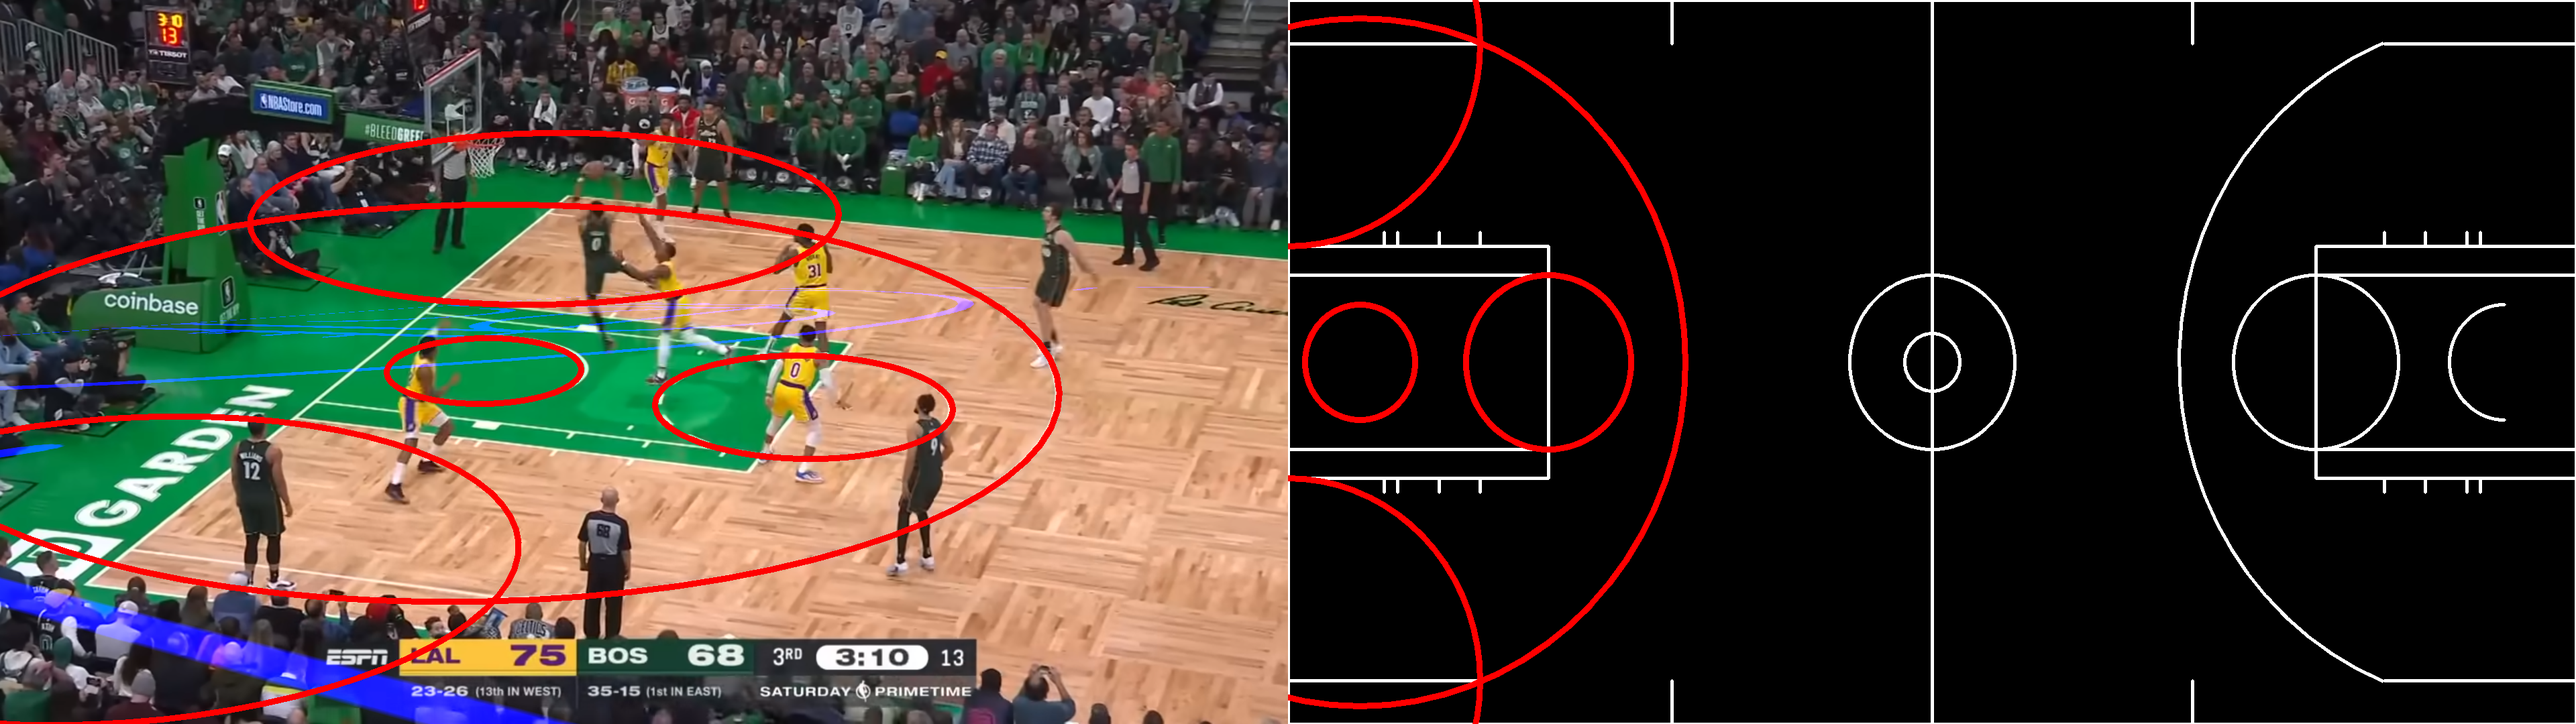
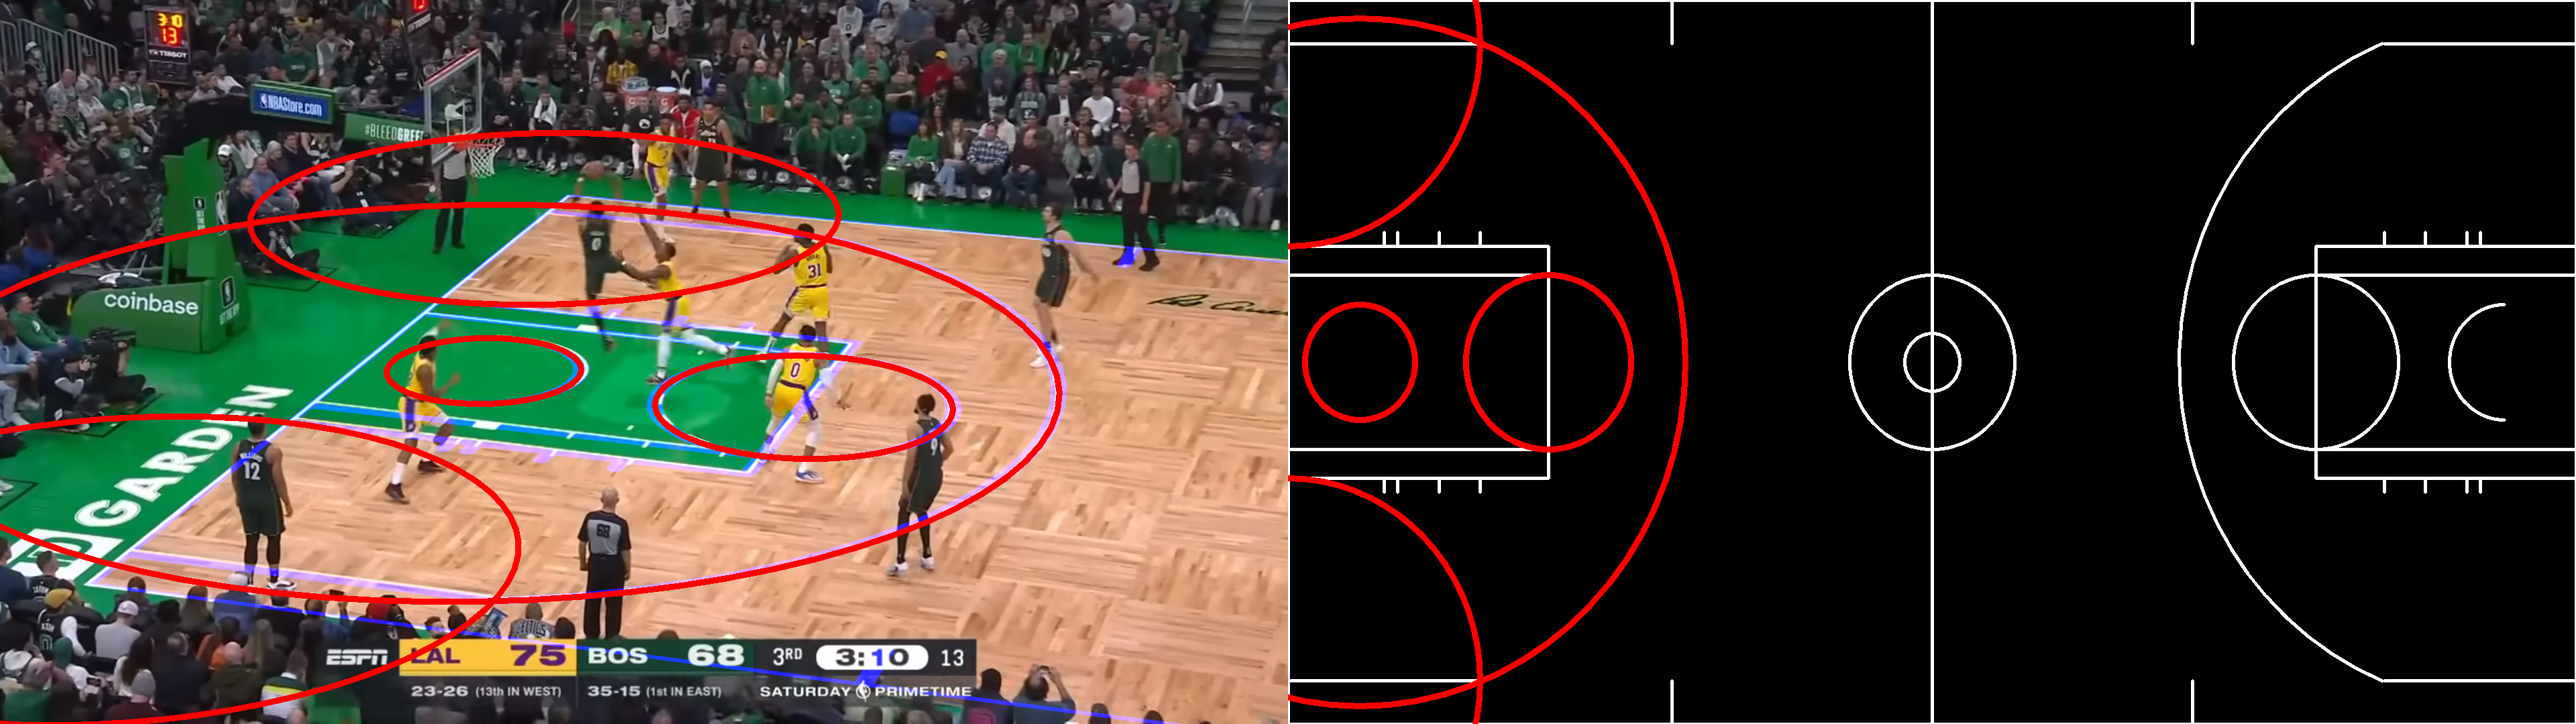
add demo for image registration

diff --git a/projective_geometry/image_registration/register.py b/projective_geometry/image_registration/register.py
@@ -1,0 +1,194 @@
+# Copyrights (C) StatsBomb Services Ltd. 2021. - All Rights Reserved.
+# Unauthorized copying of this file, via any medium is strictly
+# prohibited. Proprietary and confidential
+
+from dataclasses import dataclass
+from typing import Any, Optional, Tuple
+
+import cv2
+import numpy as np
+
+
+MAX_FEATURES_ORB = 500
+MATCHER_TYPE: int = cv2.DESCRIPTOR_MATCHER_BRUTEFORCE_HAMMING
+
+
+@dataclass
+class MatchedKeypoints():
+    """Class to store matched keypoints and descriptors for target and source images"""
+    target_keypoints: Tuple[cv2.KeyPoint, ...]
+    source_keypoints: Tuple[cv2.KeyPoint, ...]
+    matches: Tuple[cv2.DMatch, ...]
+
+class ImageRegistrator():
+    def __init__(self, max_features_detector: int = MAX_FEATURES_ORB, matcher_type: int = MATCHER_TYPE):
+        self._orb = cv2.ORB_create(max_features_detector)  # type: ignore
+        self._matcher = cv2.DescriptorMatcher_create(matcher_type)  # type: ignore
+
+    def register(
+        self,
+        target_image: np.ndarray,
+        source_image: np.ndarray,
+        target_mask: Optional[np.ndarray] = None,
+        source_mask: Optional[np.ndarray] = None,
+    ) -> Tuple[MatchedKeypoints, np.ndarray]:
+        """Register two images of the same scene using a projective transform
+
+        Note: If not enough keypoints are detected, it will return an identity matrix as the homography
+
+        Args:
+            target_image: ndarray reference image that will remain static
+            source_image: ndarray image that will undergo a homography transform in order to align with target image
+            target_mask: bool ndarray mask indicating valid region for keypoint detection in target image
+            source_mask: bool ndarray mask indicating valid region for keypoint detection in source image
+
+        Returns:
+            matched_keypoints: MatchedKeypoints containing list of matches as well as all detected keypoints and descriptors for both images
+            homography_image_registration: ndarray 3x3 homography matrix that maps homogeneous points from source image to target image
+        """
+        # find matches
+        matched_keypoints = self._match_keypoints(
+            target_image=target_image, source_image=source_image, target_mask=target_mask, source_mask=source_mask
+        )
+        # filter top matches to remove noisy outliers. It returns a minimum of 4 points to compute homography
+        matched_keypoints = self._filter_top_matches(matched_keypoints=matched_keypoints)
+
+        # Raise an error if it doesn't get at least 4 point
+        assert len(matched_keypoints.matches) >= 4, f"Only {len(matched_keypoints.matches)} keypoints have been detected. A minimum of 4 is required for the algorithm to succeed"
+
+        # compute homography
+        homography = self._homography_from_matched_keypoints(matched_keypoints=matched_keypoints)
+        return matched_keypoints, homography
+
+    def _detect_keypoints(
+        self,
+        image: np.ndarray,
+        mask: Optional[np.ndarray] = None,
+    ) -> Tuple[cv2.KeyPoint, ...]:
+        """
+        Detects relevant keypoints constraining the search within the mask if provided
+
+        Args:
+            image: ndarray BGR image to find keypoints in
+            mask: bool ndarray mask indicating valid region for keypoint detection
+
+        Returns:
+            keypoints: Tuple[cv2.KeyPoint, ...] with keypoints to extract descriptors for
+        """
+        gray_image = cv2.cvtColor(image, cv2.COLOR_BGR2GRAY) if len(image.shape) == 3 else image
+        assert len(gray_image.shape) == 2, "Images must be in gray scale"
+        # check mask has correct size and type if provided and convert to np.uint8 as required by opencv
+        if isinstance(mask, np.ndarray):
+            assert mask.dtype == bool, f"Mask must a boolean array (type is {mask.dtype})"
+            assert gray_image.shape == mask.shape, f"Image {gray_image.shape} and mask {mask.shape} shapes must match"
+            mask = mask.astype(np.uint8)
+
+        # use ORB to detect keypoints and extract (binary) local invariant features
+        return self._orb.detect(gray_image, mask)
+    
+    def _describe_keypoints(self, image: np.ndarray, keypoints: Tuple[cv2.KeyPoint, ...]) -> np.ndarray:
+        """
+        Extracts feature descriptors of given keypoints from image
+
+        Args:
+            image: ndarray BGR image to extract descriptors from
+            keypoints: Tuple[cv2.KeyPoint, ...] with keypoints to extract descriptors for
+
+        Returns:
+            descriptive_keypoints_target_image: DescriptiveKeypoints containing keypoints and corresponding descriptors for target image
+            descriptive_keypoints_source_image: DescriptiveKeypoints containing keypoints and corresponding descriptors for source image
+        """
+        gray_image = cv2.cvtColor(image, cv2.COLOR_BGR2GRAY) if len(image.shape) == 3 else image
+        assert len(gray_image.shape) == 2, "Images must be in gray scale"
+
+        # use ORB to detect keypoints and extract (binary) local invariant features
+        _, descriptors = self._orb.compute(gray_image, keypoints)
+        return descriptors
+    
+    def _match_keypoints(
+        self,
+        target_image: np.ndarray,
+        source_image: np.ndarray,
+        target_mask: Optional[np.ndarray] = None,
+        source_mask: Optional[np.ndarray] = None,
+    ) -> MatchedKeypoints:
+        """
+        Process target and source images to get descriptive keypoints and match them
+
+        Args:
+            target_image: ndarray reference image that will remain static
+            source_image: ndarray image that will undergo a homography transform in order to align with target image
+            target_mask: bool ndarray mask indicating valid region for keypoint detection in target image
+            source_mask: bool ndarray mask indicating valid region for keypoint detection in source image
+
+        Returns:
+            MatchedKeypoints containing found matches
+        """
+        # detect keypoints
+        target_keypoints = self._detect_keypoints(image=target_image, mask=target_mask)
+        source_keypoints = self._detect_keypoints(image=source_image, mask=source_mask)
+
+        # compute descriptors
+        target_descriptive_keypoints = self._describe_keypoints(image=target_image, keypoints=target_keypoints)
+        source_descriptive_keypoints = self._describe_keypoints(image=source_image, keypoints=source_keypoints)
+
+        # find matches
+        matches = self._matcher.match(target_descriptive_keypoints, source_descriptive_keypoints, None)
+        return MatchedKeypoints(target_keypoints=target_keypoints, source_keypoints=source_keypoints, matches=matches)
+
+    def _filter_top_matches(
+        self,
+        matched_keypoints: MatchedKeypoints,
+        min_matches: int = 4,
+        keep_percent: float = 0.1,
+    ) -> MatchedKeypoints:
+        """
+        Sort matches based on similarity of their descriptors and filter to preserve the closest ones
+
+        Args:
+            matches: MatchedKeypoints containing list of matches after removing static ones, as well as all detected keypoints and descriptors for both images
+            min_matches: int minimum number of matches to preserve
+            keep_percent: float percentage of keypoint matches to keep, effectively allowing us to eliminate noisy keypoint matching results
+
+        Returns:
+            MatchedKeypoints containing list of matches sorted sorted by similarity after filtering to preserve only the
+              most similar ones. It contains as well as all detected keypoints and descriptors for both images
+        """
+        assert 0 <= keep_percent <= 1, f"keep_percent must be in range [0, 1] (keep_percent={keep_percent})"
+        assert (
+            len(matched_keypoints.matches) >= min_matches
+        ), f"Only {len(matched_keypoints.matches)} keypoints have been considered for image registration. A minimum of 4 is required for the algorithm to succeed"
+        # sort the matches by their distance (the smaller the distance, the "more similar" the features are)
+        matches_sorted = sorted(matched_keypoints.matches, key=lambda x: x.distance)
+
+        # keep only the top matches
+        keep_matches_indices = max(min_matches, int(len(matches_sorted) * keep_percent))
+        top_matches: Tuple[cv2.DMatch, ...] = tuple(matches_sorted[:keep_matches_indices])
+        return MatchedKeypoints(
+            matches=top_matches,
+            target_keypoints=matched_keypoints.target_keypoints,
+            source_keypoints=matched_keypoints.source_keypoints,
+        )
+    
+    def _homography_from_matched_keypoints(self, matched_keypoints: MatchedKeypoints) -> np.ndarray:
+        """
+        Compute homography matrix to map points from source image to target image
+
+        Args:
+            matched_keypoints: MatchedKeypoints matches as well as all detected keypoints for both images
+
+        Returns:
+            homography_image_registration: ndarray 3x3 homography matrix that maps homogeneous points from source image to target image
+        """
+        # Extract location of good matches
+        keypoints_target_image_array = np.zeros((len(matched_keypoints.matches), 2), dtype=np.float32)
+        keypoints_source_image_array = np.zeros((len(matched_keypoints.matches), 2), dtype=np.float32)
+        for i, match in enumerate(matched_keypoints.matches):
+            keypoints_target_image_array[i, :] = matched_keypoints.target_keypoints[match.queryIdx].pt
+            keypoints_source_image_array[i, :] = matched_keypoints.source_keypoints[match.trainIdx].pt
+
+        # Find homography
+        homography_matrix_registration, _ = cv2.findHomography(
+            keypoints_source_image_array, keypoints_target_image_array, cv2.RANSAC
+        )
+        return homography_matrix_registration

diff --git a/projective_geometry/__main__.py b/projective_geometry/__main__.py
@@ -72,6 +72,7 @@ IMG_TEMPLATE_FPATH = PROJECT_LOCATION / "results/animation_template.png"
 IMG_CELTICS_FPATH = PROJECT_LOCATION / "results/celtics.png"
 PT_RADIUS = 10
 PT_THICKNESS = 7
+BORDER_SIZE = 10
 
 cli_app = Typer()
 
@@ -532,6 +533,43 @@ def homography_from_correspondences_demo(
         pt_img = basketball_court.pitch_template_to_pitch_image(geometric_feature=pt, image_size=image_size)
         pt_img.draw(img=basketball_court_img, color=Color.RED, radius=PT_RADIUS, thickness=PT_THICKNESS)  # type: ignore
     cv2.imwrite(output.as_posix(), np.concatenate((frame_with_projected_court, basketball_court_img), axis=1))
+
+
+@cli_app.command()
+def homography_from_image_registration(
+    target: Path = PROJECT_LOCATION / "results/target.png",
+    source: Path = PROJECT_LOCATION / "results/source.png",
+):
+    target_image = cv2.imread(target.as_posix())
+    source_image = cv2.imread(source.as_posix())
+    camera, matched_keypoints = Camera.from_image_registration(target_image=target_image, source_image=source_image)
+
+    # visualize matched keypoints
+    img_matches = cv2.drawMatches(
+        target_image,
+        matched_keypoints.target_keypoints,
+        source_image,
+        matched_keypoints.source_keypoints,
+        matched_keypoints.matches,
+        None,
+    )
+    cv2.imwrite((PROJECT_LOCATION / "results/matches.png").as_posix(), img_matches)
+
+    # visualize warped image
+    height, width, _ = source_image.shape
+    source_image_border = cv2.copyMakeBorder(
+        source_image[BORDER_SIZE:-BORDER_SIZE, BORDER_SIZE:-BORDER_SIZE],
+        BORDER_SIZE,
+        BORDER_SIZE,
+        BORDER_SIZE,
+        BORDER_SIZE,
+        cv2.BORDER_CONSTANT,
+        value=Color.RED,
+    )
+    warped_image = cv2.warpPerspective(source_image_border, camera.H, (width, height))
+    # add red border to warped image without changing its size
+    target_and_warped_images = cv2.addWeighted(target_image, 1, warped_image, 0.5, 0)
+    cv2.imwrite((PROJECT_LOCATION / "results/warped.png").as_posix(), target_and_warped_images)
 
 
 # Program entry point redirection

diff --git a/projective_geometry/camera/camera.py b/projective_geometry/camera/camera.py
@@ -1,6 +1,6 @@
 from __future__ import annotations
 
-from typing import List
+from typing import List, Tuple
 
 import cv2
 import numpy as np
@@ -11,6 +11,10 @@ from projective_geometry.draw.image_size import ImageSize
 from projective_geometry.geometry.ellipse import Ellipse
 from projective_geometry.geometry.line import Line
 from projective_geometry.geometry.point import Point
+from projective_geometry.image_registration.register import (
+    ImageRegistrator,
+    MatchedKeypoints,
+)
 
 
 class Camera:
@@ -352,6 +356,20 @@ class Camera:
             raise ValueError(f"{err_msg}")
 
         return cls(H=homography_matrix)
+
+    @classmethod
+    def from_image_registration(cls, target_image: np.ndarray, source_image: np.ndarray) -> Tuple["Camera", MatchedKeypoints]:
+        """Compute homography matrix from image registration
+
+        Args:
+            target_image: ndarray reference image that will remain static
+            source_image: ndarray image that will undergo a homography transform in order to align with target image
+
+        Returns:
+            Camera with homography matrix from image registration
+        """
+        matched_keypoints, H_registration = ImageRegistrator().register(target_image=target_image, source_image=source_image)
+        return cls(H=H_registration), matched_keypoints
 
     @staticmethod
     def intrinsic_matrix_from_focal_length(focal_length: float, image_size: ImageSize) -> np.ndarray:
